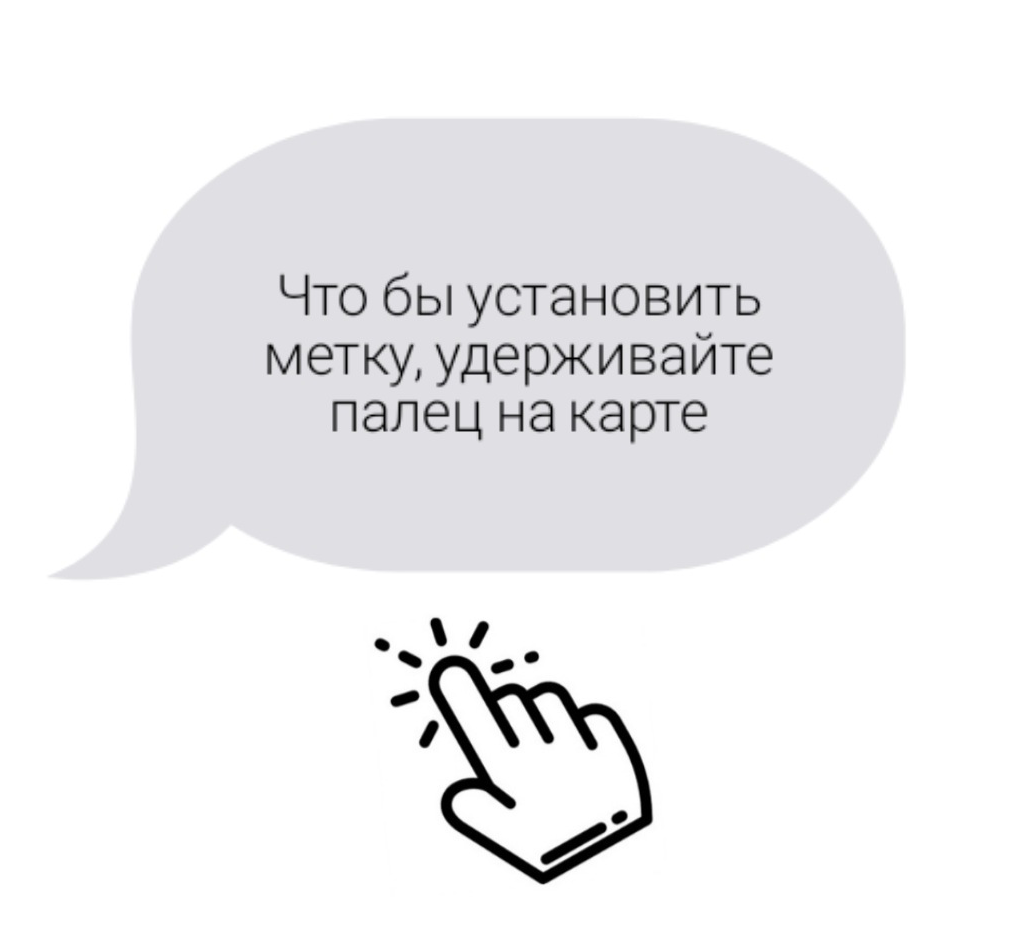
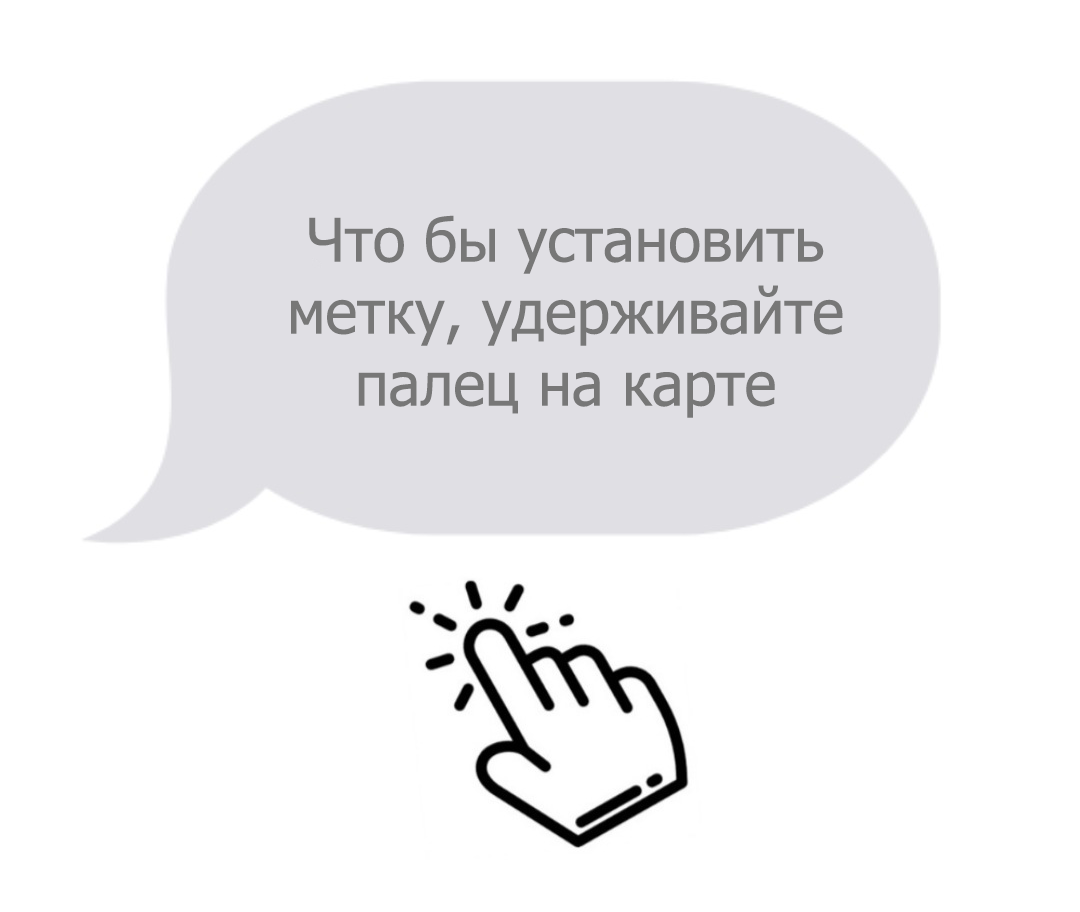
new start page

diff --git a/MapChat/src/components/StartModal/StartModal.js b/MapChat/src/components/StartModal/StartModal.js
@@ -1,7 +1,33 @@
 import React, { useState } from 'react';
 import { StyleSheet, Text, View, Image, Button, TouchableOpacity, Modal } from 'react-native';
 
-export default StartModal = ({startModal, hideModal}) => {
+export default StartModal = ({ startModal, hideModal }) => {
+
+    const imageArray = [
+        require('../../images/controls/instructions.png'),
+        require('../../images/controls/activeInstruction.png'),
+        require('../../images/controls/clearInstruction.png'),
+    ];
+
+    const [imageIndex, setImageIndex] = useState(0);
+
+    const leftImage = () => {
+        let newIndex = imageIndex;
+        if (newIndex == 0) {
+            newIndex = 3;
+        }
+        newIndex--;
+        setImageIndex(newIndex);
+    }
+
+    const rightImage = () => {
+        let newIndex = imageIndex;
+        if (newIndex == 2) {
+            newIndex = -1;
+        }
+        newIndex++;
+        setImageIndex(newIndex)
+    }
 
     return (
         <Modal visible={startModal}>
@@ -11,9 +37,22 @@ export default StartModal = ({startModal, hideModal}) => {
                     <Text style={styles.police}>Drive</Text>
                     <Text style={styles.police}>Chat</Text>
                 </View>
-                <Image source={require('../../images/controls/instructions.png')} style={{ width: 270, height: 230, marginBottom: 90 }} />
+                <View style={{ flexDirection: 'row', justifyContent: 'space-around', }} >
+                    <TouchableOpacity style = {styles.arrows} onPress = {leftImage}>
+                        <Image source = {require('../../images/controls/left.png')}  style={{ width: 60, height: 30 }} />
+                    </TouchableOpacity>
+                    <Image source={imageArray[imageIndex]} style={{ width: 270, height: 230, marginBottom: 90 }} />
+                    <TouchableOpacity style = {styles.arrows} onPress = {rightImage}>
+                        <Image source = {require('../../images/controls/right.png')}  style={{ width: 60, height: 30 }} />
+                    </TouchableOpacity>
+                </View>
+                <View style = {{ flexDirection: 'row', justifyContent: 'space-around', marginBottom: 30 }}>
+                    <TouchableOpacity onPress = {() => setImageIndex(0)} style = {imageIndex == 0 ? styles.activeRound : styles.round}></TouchableOpacity>
+                    <TouchableOpacity onPress = {() => setImageIndex(1)} style = {imageIndex == 1 ? styles.activeRound : styles.round}></TouchableOpacity>
+                    <TouchableOpacity onPress = {() => setImageIndex(2)} style = {imageIndex == 2 ? styles.activeRound : styles.round}></TouchableOpacity>
+                </View>
                 <TouchableOpacity style={styles.goToMyPositionIcon} onPress={() => hideModal()} >
-                    <Image source={require('../../images/controls/start_btn.png')} style={{ width:180, height: 50 }} />
+                    <Image source={require('../../images/controls/start_btn.png')} style={{ width: 180, height: 50 }} />
                 </TouchableOpacity>
             </View>
         </Modal>
@@ -39,6 +78,24 @@ const styles = StyleSheet.create({
     policegrammWrapper: {
         display: 'flex',
         flexDirection: 'row',
-        marginBottom: 70,
+        marginBottom: 30,
+    },
+    arrows: {
+        marginTop: 75,
+    },
+    round: {
+        width: 20,
+        height: 20,
+        borderRadius: 10,
+        backgroundColor: '#dddada',
+        marginLeft: 5,
+    }, 
+    activeRound: {
+        width: 25,
+        height: 25,
+        borderRadius: 12.5,
+        backgroundColor: '#aeaeae',
+        marginTop: -2.5,
+        marginLeft: 5,
     }
 });
